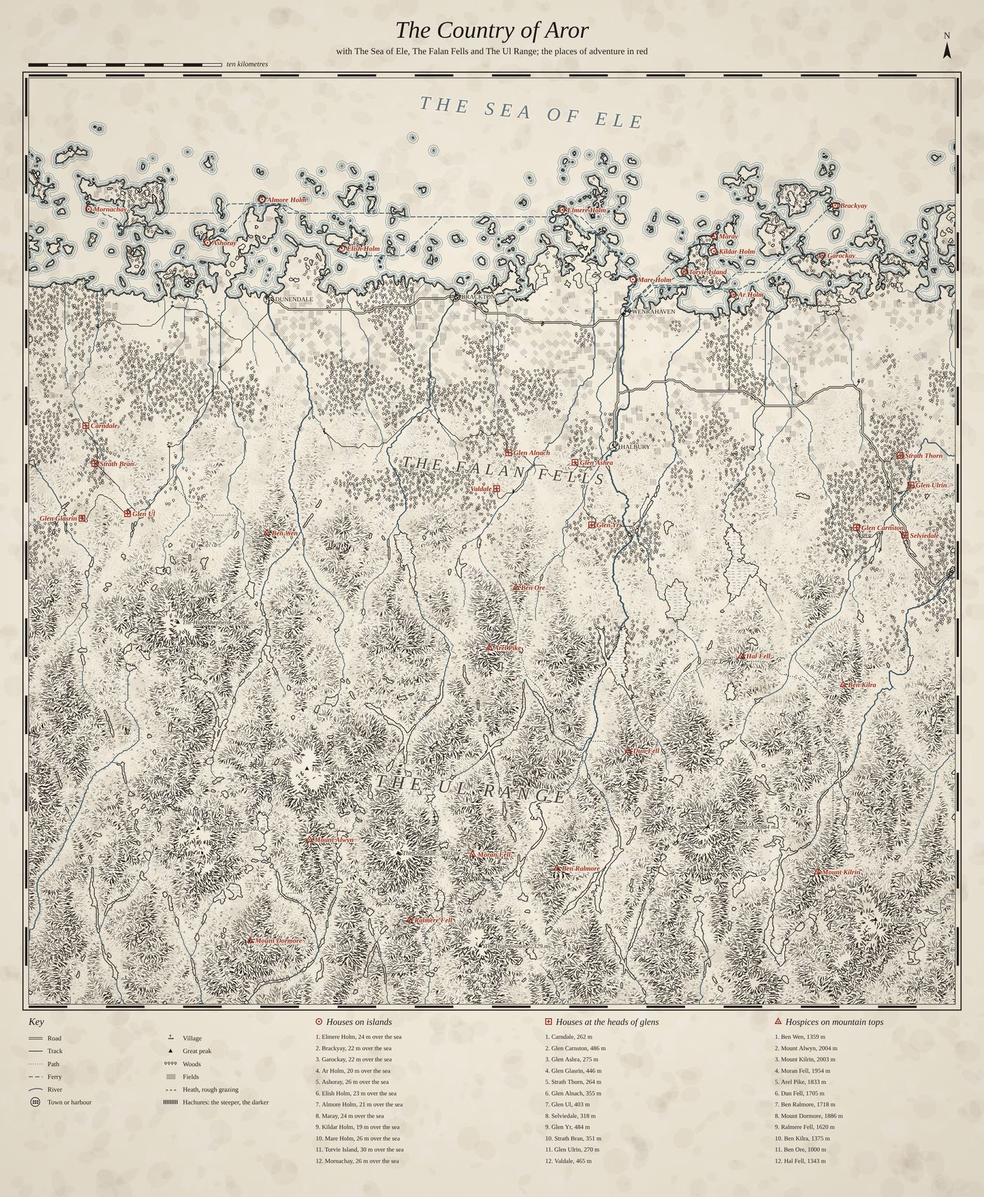
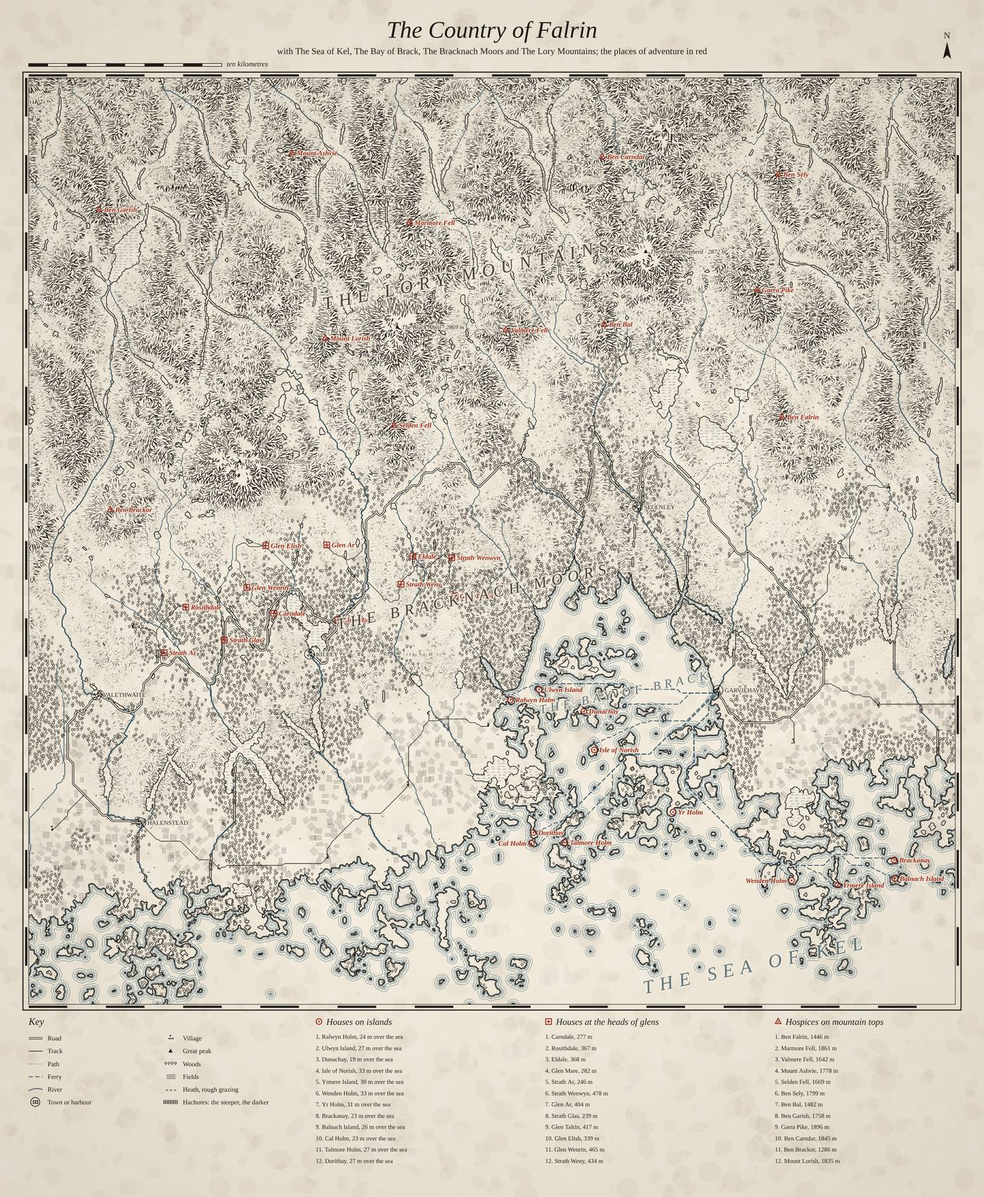
Worlds with the sea to the south, a great bay, and fjords
Inland is now north in every world, turned a little, so the sea and its islands lie to the south
and the mountains to the north.

Every world has a great bay: the coast pushed back inland over a stretch nine to fourteen
kilometres broad and ten to fifteen deep. Only the coast moves, so the bay cuts past the low
country into the upland and its shores are high ground; its floor is the shelf's, shallow and with
islands. Wherever the coast is high ground, the straths run on under the sea as fjords for six to
twelve kilometres; where low country lies in front of one, it holds a long loch instead. The wear
spares the sea's floor so that no sills are built across them. The bay is named and lettered on
the map.

The plan says what the time goes on: nine tenths of it the drops of water that wear the world and
its tiles, with what could be done about it.

Claude-Session: https://claude.ai/code/session_01B8uYcpgCvHtxtKsFNi9Pwq

diff --git a/src/core/world.ts b/src/core/world.ts
@@ -51,13 +51,21 @@ export interface WorldPlan {
   upland: number;
   /** The great peaks of the range: the landmarks, seen from everywhere. */
   peaks: { x: number; z: number; r: number; height: number }[];
+  /**
+   * A great bay, the coast pushed inland: where its middle lies along the coast (metres from the
+   * world's middle, eastward when inland is north), how broad it is at its mouth, and how far inland
+   * it reaches.
+   */
+  bay: { at: number; width: number; depth: number };
+  /** Fjords, where the coast is high ground: how deeply they are cut (0 to 1), and how far inland of the coast they run. */
+  fjords: { strength: number; reach: number };
 }
 
 export function planWorld(seed: string): WorldPlan {
   const rng = new Rng(`world/${seed}`), q = rng.fork('plan');
   const half = 24000;
-  // (Inland is one of the four quarters, turned a little: so the zones lie across the square and each has its share of it.)
-  const inland = q.int(0, 3) * (Math.PI / 2) + q.range(-0.35, 0.35);
+  // (Inland is north, turned a little: the sea and its islands to the south, the mountains to the north, as asked.)
+  const inland = -Math.PI / 2 + q.range(-0.3, 0.3);
   const span = half * (Math.abs(Math.cos(inland)) + Math.abs(Math.sin(inland)));
   const shelf = q.range(6500, 9000);
   const p: WorldPlan = {
@@ -66,13 +74,19 @@ export function planWorld(seed: string): WorldPlan {
     coast: -span + 4500 + shelf, shelf,
     // (Broad in some worlds, a strip in others, and in places none at all: there the upland comes down to the sea.)
     // (The range takes what is left, some third of the world: with more, it filled half of it and the rest was squeezed.)
-    plains: q.range(3000, 10000), upland: q.range(10000, 14000), peaks: [],
+    plains: q.range(2500, 9000), upland: q.range(10000, 14000), peaks: [],
+    bay: { at: 0, width: 0, depth: 0 }, fjords: { strength: 0, reach: 0 },
   };
+  // The bay: somewhere along the coast, not hard by the world's edge; broad, and reaching well inland, past the low country into
+  // the upland, where its sides and its head are fjord coast. (From a stream of its own, so the rest of the plan stays as it was.)
+  const b = rng.fork('bay');
+  p.bay = { at: Math.round(b.range(-0.45, 0.45) * half), width: Math.round(b.range(9000, 14000)), depth: Math.round(b.range(10000, 15000)) };
+  p.fjords = { strength: Math.round(b.range(0.6, 1) * 100) / 100, reach: Math.round(b.range(6000, 12000)) };
   // The great peaks: four to seven, well back in the range and well apart.
   const g = rng.fork('peaks'), want = g.int(4, 7);
   for (let tries = 0; tries < 600 && p.peaks.length < want; tries++) {
     const x = g.range(-half * 0.9, half * 0.9), z = g.range(-half * 0.9, half * 0.9), zn = zonesAt(p, x, z);
-    if (zn.d - zn.U < 3500) continue;
+    if (zn.d0 - zn.U < 3500) continue;
     const r = g.range(1800, 2800);
     if (p.peaks.some((o) => Math.hypot(o.x - x, o.z - z) < (o.r + r) * 1.15)) continue;
     p.peaks.push({ x: Math.round(x), z: Math.round(z), r: Math.round(r), height: Math.round(g.range(2300, 2900)) });
@@ -80,19 +94,29 @@ export function planWorld(seed: string): WorldPlan {
   return p;
 }
 
-/** Where a point lies among the zones: how far inland of the coast (`d`), where the upland and the range begin there, and how much it belongs to each zone (the four add to one). */
-export interface Zones { d: number; P: number; U: number; wI: number; wP: number; wU: number; wR: number }
-const ZN: Zones = { d: 0, P: 0, U: 0, wI: 0, wP: 0, wU: 0, wR: 0 };
+/**
+ * Where a point lies among the zones: how far inland of the coast (`d`, the bay's shore included) and
+ * of the coast as it would run without the bay (`d0`); where the upland and the range begin there,
+ * measured as `d0` is; how far it is upland or range rather than low country (`up`), and range
+ * rather than upland (`high`); and how much it belongs to each zone (the four add to one).
+ */
+export interface Zones { d: number; d0: number; P: number; U: number; up: number; high: number; wI: number; wP: number; wU: number; wR: number }
+const ZN: Zones = { d: 0, d0: 0, P: 0, U: 0, up: 0, high: 0, wI: 0, wP: 0, wU: 0, wR: 0 };
 
 /** The zones at a point. (Written into one object, reused: read what is wanted before asking again.) */
 export function zonesAt(p: WorldPlan, x: number, z: number): Zones {
   const n = p.n, s = x * Math.cos(p.inland) + z * Math.sin(p.inland);
   // (The coast wanders in bays and headlands some kilometres across, and in smaller ones on them.)
-  const d = s - p.coast + 5000 * fbmd(x / 11000 + 1.7, z / 11000 - 0.3, 3, n + 1) + 900 * fbmd(x / 3000, z / 3000 + 2.2, 3, n + 2);
+  const d0 = s - p.coast + 5000 * fbmd(x / 11000 + 1.7, z / 11000 - 0.3, 3, n + 1) + 900 * fbmd(x / 3000, z / 3000 + 2.2, 3, n + 2);
+  // The great bay: the coast pushed back inland, furthest along its middle, which wanders; rounded at its head. Only the coast is
+  // moved: the upland and the range stand where they would without it, so where it reaches them its shores are high ground.
+  const B = p.bay, lat = -x * Math.sin(p.inland) + z * Math.cos(p.inland);
+  const across = (lat - B.at + 1800 * fbmd(d0 / 7000 + 2.7, 0.4, 2, n + 6)) / (B.width / 2);
+  const d = d0 - B.depth * Math.pow(Math.max(0, 1 - Math.pow(Math.abs(across), 1.6)), 0.6);
   const P = p.plains + 7000 * fbmd(x / 10000 + 3.3, z / 10000 - 1.2, 2, n + 3);
   const U = Math.max(P, -400) + p.upland + 4000 * fbmd(x / 10000 - 4.1, z / 10000 + 2.2, 2, n + 4);
-  const a = smooth((d + 600) / 2000), b = smooth((d - P + 1500) / 3000), c = smooth((d - U + 2500) / 5000);
-  ZN.d = d; ZN.P = P; ZN.U = U;
+  const a = smooth((d + 600) / 2000), b = smooth((d0 - P + 1500) / 3000), c = smooth((d0 - U + 2500) / 5000);
+  ZN.d = d; ZN.d0 = d0; ZN.P = P; ZN.U = U; ZN.up = b; ZN.high = c;
   ZN.wI = 1 - a; ZN.wP = a * (1 - b); ZN.wU = a * b * (1 - c); ZN.wR = a * b * c;
   return ZN;
 }
@@ -142,9 +166,9 @@ function valleyLines(p: WorldPlan, x: number, z: number, apart: number, shape: n
 /**
  * The upland: as the valleys' frame has it (`highlands.ts`), ridged noise turned over so that its
  * crests are the floors of glens four or five hundred metres apart, branching and joining; and
- * under those, broad straths a couple of kilometres apart, made the same way at a larger size.
- * The glens fade out on the straths' floors, so that they come down into the straths and do not
- * dam them. Higher the further inland.
+ * under those, broad straths a few kilometres apart running inland (`valleyLines`). The glens fade
+ * out on the straths' floors, so that they come down into the straths and do not dam them. Higher
+ * the further inland.
  */
 function uplandAt(p: WorldPlan, x: number, z: number, d: number, P: number, U: number, fine: boolean): number {
   const n = p.n, t = clamp01((d - P) / Math.max(3000, U - P));
@@ -190,12 +214,21 @@ function rangeAt(p: WorldPlan, x: number, z: number, d: number, U: number, fine:
 
 /** The plain shape of the world's land at a point: each zone's land, in the share the point belongs to it. `fine` for the tiles' lattice, with more octaves. */
 export function worldShape(p: WorldPlan, x: number, z: number, fine = false): number {
-  const { d, P, U, wI, wP, wU, wR } = zonesAt(p, x, z);
+  const { d, d0, P, U, up, high, wI, wP, wU, wR } = zonesAt(p, x, z);
   let h = 0;
-  if (wI > 1e-4) h += wI * islesAt(p, x, z, d, fine);
+  // (The bay's floor is reckoned as the shelf's near the coast, so that it is shallow and has its islands, and is not open sea;
+  // in front of its mouth a channel a little deeper than the shelf around leads in.)
+  if (wI > 1e-4) h += wI * islesAt(p, x, z, Math.max(d, Math.min(d0, 0) - 2500), fine);
   if (wP > 1e-4) h += wP * plainsAt(p, x, z, d, P, fine);
-  if (wU > 1e-4) h += wU * uplandAt(p, x, z, d, P, U, fine);
-  if (wR > 1e-4) h += wR * rangeAt(p, x, z, d, U, fine);
+  if (wU > 1e-4) h += wU * uplandAt(p, x, z, d0, P, U, fine);
+  if (wR > 1e-4) h += wR * rangeAt(p, x, z, d0, U, fine);
+  // Fjords: where the coast is high ground (the upland come down to the sea, or the bay's shores cut into it), the straths, deep
+  // as the ice left them, run on under the sea for some kilometres inland, shallowing towards their heads, between walls.
+  const F = p.fjords, reach = 1 - smooth((d - F.reach) / 2500);
+  if (F.strength > 0 && d > -2000 && reach > 0 && up > 0.05 && high < 0.95) {
+    const v = valleyLines(p, x, z, 2300, 1, p.n + 36), w = Math.pow(Math.max(0, 1 - v / 0.45), 1.5) * up * (1 - high) * F.strength * reach;
+    if (w > 0) h -= w * (200 + 0.75 * Math.max(0, h));
+  }
   return h;
 }
 
@@ -240,7 +273,7 @@ export interface World {
   plan: WorldPlan;
   /** Its name; the names of its sea, its upland and its range; and of each great peak, in the plan's order. */
   name: string;
-  regions: { sea: string; upland: string; range: string };
+  regions: { sea: string; bay: string; upland: string; range: string };
   peakNames: string[];
   /** The land, worn; and as it was shaped before it was worn. */
   field: HeightField;
@@ -435,8 +468,9 @@ export function* worldSteps(seed: string): Generator<string, World> {
   for (let j = 0; j < N; j++) for (let i = 0; i < N; i++) {
     const x = f.x0 + i * CELL, z = f.z0 + j * CELL, k = j * N + i;
     f.data[k] = worldShape(p, x, z);
-    // (The shelf is spared on this lattice: its islands are a few points across here, and are worn in the tiles instead.)
-    keep[k] = zonesAt(p, x, z).wI;
+    // (The shelf is spared on this lattice: its islands are a few points across here, and are worn in the tiles instead. So is the
+    // floor of the sea wherever it is, fjords' too: what the water brought down would build sills across them.)
+    keep[k] = Math.max(zonesAt(p, x, z).wI, smooth(-f.data[k] / 15));
   }
   lap('shape');
   yield 'Wearing it with water and frost';
@@ -485,7 +519,7 @@ export function* worldSteps(seed: string): Generator<string, World> {
   yield 'Seeing what grows';
   const cover = coverOf(p, f, sea, lake, acc);
   lap('cover');
-  const w: World = { plan: p, name: '', regions: { sea: '', upland: '', range: '' }, peakNames: [], field: f, shaped, sea, lake, cover, acc, down, rivers, places: [], towns: [], ways: [], timing, why };
+  const w: World = { plan: p, name: '', regions: { sea: '', bay: '', upland: '', range: '' }, peakNames: [], field: f, shaped, sea, lake, cover, acc, down, rivers, places: [], towns: [], ways: [], timing, why };
 
   // ---- the places
   // Islands and valley heads, in the tiles where the shelf has land and where the upland is.
@@ -557,7 +591,7 @@ export function* worldSteps(seed: string): Generator<string, World> {
   // ---- names, in a fixed order, so that a world's names stay as they are while its places do
   const namer = new Namer(rng.fork('names'));
   w.name = namer.name('world');
-  w.regions = { sea: namer.name('sea'), upland: namer.name('upland'), range: namer.name('range') };
+  w.regions = { sea: namer.name('sea'), bay: namer.name('bay'), upland: namer.name('upland'), range: namer.name('range') };
   w.peakNames = p.peaks.map(() => namer.name('peak'));
   for (const t of w.towns) t.name = namer.name(t.kind);
   for (const q of w.places) q.name = namer.name(q.kind);

diff --git a/src/maps/inkWorld.ts b/src/maps/inkWorld.ts
@@ -309,18 +309,19 @@ export function drawInkWorld(canvas: HTMLCanvasElement, w: WorldMap, opts: { pix
 
   // The names of the sea, the upland and the range, spaced out across them, along the run of the coast.
   {
-    const sums: Record<string, [number, number, number]> = { sea: [0, 0, 0], upland: [0, 0, 0], range: [0, 0, 0] };
+    const sums: Record<string, [number, number, number]> = { sea: [0, 0, 0], bay: [0, 0, 0], upland: [0, 0, 0], range: [0, 0, 0] };
     for (let z = -half + 480; z < half; z += 960) for (let x = -half + 480; x < half; x += 960) {
       const zn = zonesAt(p, x, z), k = cellOf(x, z);
       const add = (key: string) => { sums[key][0] += x; sums[key][1] += z; sums[key][2]++; };
-      if (w.sea[k] && dist[k] > 1500) add('sea');
+      if (w.sea[k] && dist[k] > 1500 && zn.d0 < -1500) add('sea');
+      if (w.sea[k] && dist[k] > 400 && zn.d0 > 1500) add('bay');
       if (zn.wU > 0.7) add('upland');
       if (zn.wR > 0.8) add('range');
     }
     let a = p.inland + Math.PI / 2;
     while (a > Math.PI / 2) a -= Math.PI;
     while (a < -Math.PI / 2) a += Math.PI;
-    for (const [key, size] of [['sea', 46], ['upland', 38], ['range', 44]] as const) {
+    for (const [key, size] of [['sea', 46], ['bay', 30], ['upland', 38], ['range', 44]] as const) {
       const [sx, sz, n] = sums[key];
       if (!n) continue;
       const text = w.regions[key].toUpperCase().split('').join(String.fromCharCode(8202) + ' ');
@@ -330,7 +331,7 @@ export function drawInkWorld(canvas: HTMLCanvasElement, w: WorldMap, opts: { pix
       // (Lettered over the hachures, with the paper showing round each letter so it can be read.)
       ctx.lineWidth = 7 * u; ctx.strokeStyle = PAPER; ctx.globalAlpha = 0.75;
       ctx.strokeText(text, 0, 0, ms * 0.8);
-      ctx.globalAlpha = 0.8; ctx.fillStyle = key === 'sea' ? RIVER : INK;
+      ctx.globalAlpha = 0.8; ctx.fillStyle = key === 'sea' || key === 'bay' ? RIVER : INK;
       ctx.fillText(text, 0, 0, ms * 0.8);
       ctx.restore();
     }
@@ -359,7 +360,7 @@ export function drawInkWorld(canvas: HTMLCanvasElement, w: WorldMap, opts: { pix
   ctx.font = `italic ${58 * u}px ${SERIF}`;
   ctx.fillText(`The Country of ${w.name}`, W / 2, 92 * u);
   ctx.font = `${22 * u}px ${SERIF}`;
-  ctx.fillText(`with ${w.regions.sea}, ${w.regions.upland} and ${w.regions.range}; the places of adventure in red`, W / 2, 132 * u, W - 2 * edge);
+  ctx.fillText(`with ${w.regions.sea}, ${w.regions.bay}, ${w.regions.upland} and ${w.regions.range}; the places of adventure in red`, W / 2, 132 * u, W - 2 * edge);
   {
     const sx = edge, sy = 160 * u, kmPx = 1000 * scale;
     ctx.lineWidth = 1.4 * u; ctx.strokeStyle = INK;

diff --git a/src/core/names.ts b/src/core/names.ts
@@ -20,7 +20,7 @@ function root(rng: Rng): string {
   return cap(rng.chance(0.7) ? a + rng.pick(SECOND) : a);
 }
 
-export type NameKind = 'world' | 'sea' | 'upland' | 'range' | 'peak' | 'harbour' | 'town' | 'village' | 'island' | 'valley' | 'mountain';
+export type NameKind = 'world' | 'sea' | 'bay' | 'upland' | 'range' | 'peak' | 'harbour' | 'town' | 'village' | 'island' | 'valley' | 'mountain';
 
 /** Hands out names for one world, none twice. */
 export class Namer {
@@ -37,6 +37,7 @@ export class Namer {
     switch (kind) {
       case 'world': return x;
       case 'sea': return r.pick([`The ${x} Sound`, `The Sea of ${x}`, `The ${x} Firth`]);
+      case 'bay': return r.pick([`The Bay of ${x}`, `${x} Firth`, `The ${x} Fjord`]);
       case 'upland': return r.pick([`The ${x} Fells`, `The ${x} Moors`, `The Heights of ${x}`]);
       case 'range': return r.pick([`The ${x} Mountains`, `The ${x} Range`, `The Wall of ${x}`]);
       case 'peak': return `The ${r.pick(PEAK_WORDS.a)} ${r.pick(PEAK_WORDS.b)}`;

diff --git a/docs/03-plan.md b/docs/03-plan.md
@@ -267,7 +267,7 @@ The machine this is developed on now has a graphics card, and tablets were repor
     - *Specimen plates* (asked: "create me a "lab" style rendering grids of 16 different kind of: timber houses, classic houses, islands ..., mountains ..., 16 different kind of cave system ink maps", then trees, five each of five kinds, and the classic houses' floor plans, rectangular, U and L): published as a page (not in the repository). The houses were dealt by the generator's own rules and built with `buildBuilding` on a paved stage set up in a running valley, lit as scenery is (the game's materials are on `__dbg.materials` for this); the trees were grown one at a time in the material lab (`__lab.growPlants`); the islands and mountain tops were loaded whole, one after another, in a frame inside one page, and seen from high on their sunlit side; the cave systems are delves drawn with `drawInk`, and the plans drawn with `drawStorey`, at one scale.
     - *The great peaks round a mountain top, asked about with a picture* ("why are the big horn mountains so smooth looking ... these look smooth, and somehow not real mountains"). Measured: across a face some 700 metres high there was about 3 metres of relief finer than 40 metres and 15 to 25 finer than 150; the far sheet drew a face looking this way in rows 40 metres apart; nothing out there cast a shadow, the sun's shadow map covering only the site; and the frost wear of the near country rubbed away what relief was given. *Done:* the rock of the faces laid on after the wearing (buttresses, gullies, towers on the arêtes, `hornRelief`), the sheet's rings as close as its points, and shadows reckoned once along the sun's ray over the sheet. See `docs/04-look.md`, "The peaks round about". *Checked:* `tools/mountain.ts` (both sound; 64 and 81 seconds with the browser building beside it, the far range 1.6 to 2.1 of them, its shadows with it), `tools/sites.ts` on mountain tops (24, no failures), a winter mountain played to the end; the far range now costs about 0.8 milliseconds of a frame, seen whole from the air; pictures before and after sent.
     - *Then: "they should carry probably a magnitude more detail; making them not so stupidly sharp and high could help also; the cloud mass below the play area seems very two dimensional disc like.. could use more vertical volume filling billowing?"* *Done:* the peaks lower (giants 340 to 700 metres over the cloud, the big near ones 180 to 420) and broader, no face steeper than about forty-five degrees on the whole and nearly straight, summits eased into crests, fewer and lower lesser summits about the great ones; the far sheet a notch finer again (1,792 round, rings as close); the rock of steep faces drawn per point of the picture, down to a few metres, in the far material; the sea of cloud heaped up in domes some fifty metres high with heads on them, banked against the mountain, kept off the ridge the way climbs, with soft fringes. See `docs/04-look.md`. The great peaks are no longer let stand within a kilometre or so of the top: broad as they now are, their faces reached the top's own ground and were drawn as its plain sheet, a smooth dome. *Checked:* `tools/mountain.ts` (both sound; 72 and 74 seconds with the browser building beside them, the far range 3 to 4 of them), `tools/sites.ts` on mountain tops (24, no failures), a winter mountain played to the end. A frame seen whole from the air, at 1755 by 975 with a check running beside it, went from 13.7 to 16.6 milliseconds (the far range 2.3 of it, the sea of cloud 2.1), at the arrival from 12.7 to 14.7. Pictures before and after sent.
-24. **One world for every kind of place.** Asked: "Would it be possible to generate such terrains that the same 'world iteration' could contain areas for all locations? each separately of course then having the detailed close area", then "so we would need to generate a 'world' height map which would contain: islands; coast; placeholder for forest / farmlands / plains?; valley; mountain tops", then "Yes proceed! and write a plan as well. I will want also ink map of the world as a deliverable showing the spots for each and imaginary roads(?) or paths(?)". Planned in [document 6](06-world.md), in six steps. *Done, the first:* a world, forty-eight kilometres square, made from a seed (`world.ts`): sea and a shelf of islands, the coast, low country, an upland of glens, a range with great peaks; worn on a 48-metre lattice so that rivers drain it to the sea, hollows deeper than sixty metres given an outlet and the rest left as lakes; what lies on the land (fields, pasture, woods, heath, rock, snow, marsh, shore); tiles of a 20-metre lattice on a fixed grid in which islands and valley heads are looked for with their own searches, mountain tops on the world's lattice; a harbour, towns and villages; roads, tracks, paths and ferries laid over the land; names for all of it (`names.ts`). Its ink map and its relief on a page of their own (`world.html`, `inkWorld.ts`). *Measured:* a world in 26 to 34 seconds without a browser, 26 to 32 in one; twelve places of each kind in the worlds tried, but eleven islands in one whose shelf runs along its edge. Nothing in the game reads a world yet: steps 2 to 4 join valleys, islands and mountain tops to it, and the far land.
+24. **One world for every kind of place.** Asked: "Would it be possible to generate such terrains that the same 'world iteration' could contain areas for all locations? each separately of course then having the detailed close area", then "so we would need to generate a 'world' height map which would contain: islands; coast; placeholder for forest / farmlands / plains?; valley; mountain tops", then "Yes proceed! and write a plan as well. I will want also ink map of the world as a deliverable showing the spots for each and imaginary roads(?) or paths(?)". Planned in [document 6](06-world.md), in six steps. *Done, the first:* a world, forty-eight kilometres square, made from a seed (`world.ts`): sea and a shelf of islands, the coast, low country, an upland of glens, a range with great peaks; worn on a 48-metre lattice so that rivers drain it to the sea, hollows deeper than sixty metres given an outlet and the rest left as lakes; what lies on the land (fields, pasture, woods, heath, rock, snow, marsh, shore); tiles of a 20-metre lattice on a fixed grid in which islands and valley heads are looked for with their own searches, mountain tops on the world's lattice; a harbour, towns and villages; roads, tracks, paths and ferries laid over the land; names for all of it (`names.ts`). Its ink map and its relief on a page of their own (`world.html`, `inkWorld.ts`). *Measured:* a world in 26 to 34 seconds without a browser, 26 to 32 in one; twelve places of each kind in the worlds tried, but eleven islands in one whose shelf runs along its edge. Nothing in the game reads a world yet: steps 2 to 4 join valleys, islands and mountain tops to it, and the far land. *Then asked:* the sea and islands to the south and the mountains to the north (every world now so, turned a little), and "how could we have a large bay on the world map extending inland and having possibly fjord coasts also?": a great bay in every world, cutting past the low country into high ground, shallow with islands in it; and fjords, the upland's straths carried on under the sea for six to twelve kilometres wherever the coast is high ground, or long lochs where low country lies in front of them (see document 6). Asked too what the time goes on: nine tenths of it the drops of water that wear the land, the world's and the tiles' (document 6 has the measures and what could be done).
 
 ## Risks
 

diff --git a/docs/06-world.md b/docs/06-world.md
@@ -27,21 +27,35 @@ finer near the mountain. What was missing was one land holding them all.
 All in `src/core/world.ts`, decided from the world's seed alone; nothing in it depends on which
 place asks for it.
 
-- **The plan** (`planWorld`): which way is inland (one of the four quarters, turned a little), where
-  the coast lies, how far out the shelf of islands reaches, how broad the low country and the upland
-  are, and four to seven great peaks well back in the range.
+- **The plan** (`planWorld`): inland is north, turned up to 17 degrees either way, so the sea and its
+  islands lie to the south and the mountains to the north (asked: "would prefer orientation of having the
+  ocean and islands in south and mountains in the north"); where the coast lies, how far out the shelf of
+  islands reaches, how broad the low country and the upland are; four to seven great peaks well back in
+  the range; a great bay; and how deep and how far inland its fjords are cut.
 - **The zones.** Going inland: open sea; a shelf with islands on it; the coast; the low country;
   the upland; the range. Every point belongs to each zone in a share (`zonesAt`), the shares adding
   to one and blending over a few kilometres where zones meet. The boundaries wander: the coast in
   bays and headlands some kilometres across, the foot of the upland so far that in places it comes
   down to the sea and the low country is gone.
+- **The great bay and the fjords** (asked: "how could we have a large bay on the world map extending
+  inland and having possibly fjord coasts also?"). The bay is the coast pushed back inland over a stretch
+  nine to fourteen kilometres broad at its mouth, ten to fifteen kilometres deep, furthest along its middle
+  (which wanders) and rounded at its head. Only the coast is moved: the upland and the range stand where
+  they would without it, so the bay cuts past the low country into high ground, and its sides and head are
+  steep. Its floor is reckoned as the shelf's near the coast, so it is shallow and has islands in it, and a
+  channel a little deeper leads in at its mouth. Fjords are cut wherever the coast is high ground (the
+  bay's sides and head, and wherever the upland comes down to the sea): the straths, which already run
+  inland, are carried on under the sea between their walls for six to twelve kilometres inland, deepest at
+  their mouths and shallowing towards their heads. Where low country lies in front of one, its carved floor
+  is cut off from the sea and holds a long loch instead. The world's wear spares the floor of the sea, so
+  that what the rivers bring down does not build sills across the fjords.
 - **The land**: each zone has a land of its own, and a point's height is each zone's land in the
   share it belongs to that zone (`worldShape`). One sea level for all of it; heights in metres over
   the sea.
 
   | Zone | Its land | Heights |
   |---|---|---|
-  | Open sea and shelf | The archipelago's own land (as `archipelago.ts`), lowered to stand in the world's sea, sparser and deeper further out | islands to 20–110 m, sea floor to −300 |
+  | Open sea, shelf and bay | The archipelago's own land (as `archipelago.ts`), lowered to stand in the world's sea, sparser and deeper further out | islands to 20–110 m, sea floor to −300 |
   | Low country | Long gentle swells rising from the shore to the foot of the upland | 0 to about 200 m |
   | Upland | Broad straths running inland, and between them the glens of the valleys' frame (`highlands.ts`), branching, coming down into the straths | floors 60–400 m, tops to 800 |
   | Range | Great valleys running inland, crossing and joining; side valleys down into them; massifs and cols along the ridges; a mass under each great peak | floors 330–800 m, summits 1,000–2,300, great peaks 2,300–3,000 |
@@ -110,15 +124,21 @@ world. `tools/browser/worldmap.cjs` saves both pictures of any worlds without a 
 
 ## Measured
 
-Without a browser, in a cloud container with four cores (`npx tsx tools/world.ts 3`), November 2026:
-a world builds in 26 to 34 seconds. Its shape takes 1.6, the wear 10.5 to 11, following the water and
-cutting outlets 1.0 to 1.2, the cover 0.4; the tiles searched for islands and valley heads, 10 to 16
-of them at a little over a second each, 12 to 19 (the search stops once it has twelve of a kind, so a
-world whose islands are few or near its edge looks in more tiles); and the summits, towns and ways
-under a second together. In the browser (Chromium, headless, on the same machine), the world page made
-and drew each of the same three in 26 to 32 seconds. Of the three, two gave twelve places of each kind;
-`w0`, whose shelf runs along the world's edge, eleven islands, the rest being too near the edge. Each
-had nineteen towns (the harbour, four towns and fourteen villages) and 110 to 116 rivers.
+Without a browser, in a cloud container with four cores (`npx tsx tools/world.ts`), November 2026:
+a world builds in 25 to 33 seconds; in the browser (Chromium, headless, on the same machine) the world
+page makes and draws one in 25 to 28. Every world tried gave twelve places of each kind, nineteen towns
+(the harbour, four towns and fourteen villages) and a hundred or so rivers.
+
+What the time goes on, measured stage by stage for one world (`w2`): the shape 1.7 seconds; the wear by
+water 10.6 (a million drops, each running up to ninety steps), by frost 0.3; cutting outlets and following
+the water 0.8; the cover 0.4; then the tiles, 10 to 15 of them, each 1.25 seconds, of which 1.07 is its wear
+by water (130,000 drops), 0.11 its shape and 0.07 its frost and drainage; the summits, towns, ways and names
+under half a second together. So some nine tenths of the time is the drops. What could be done about it,
+cheapest first: keep the world once made (in the browser's storage, some ten megabytes with its tiles), so
+that only the first visit pays; wear the tiles side by side, one worker to a core, since each is made alone
+(on four cores, their twelve to eighteen seconds to four or five); fewer drops on the world's lattice (half
+as many, half the time, the rivers' valleys a little shallower); or the drops run on the graphics card, which
+is a piece of work of its own.
 
 What it took to make the land drain, for whoever changes it next: first the range was made of the
 ridged noise's crests alone, as the mountain's country is, and the hollows between the crests filled

diff --git a/README.md b/README.md
@@ -102,7 +102,7 @@ Useful URL parameters: `quality` (`low`, `medium` or `high`), `grass` (how far o
 
 In play, **Weather** opens a menu: cloud, whether it heaps up or lies in banks, mist, haze, wind and rain change as you watch (`?rain=0.8` starts it raining); a new time of day builds the place again and puts you back where you stood. What it changes is kept in the address, so a reload brings it back.
 
-**World** (`world.html`, published beside the tool) makes a whole country forty-eight kilometres square from a seed (`?world=<seed>`): a sea with islands, a coast, low country of fields and woods, an upland of glens and a range of mountains, with rivers, towns and the roads, tracks, paths and ferries between them. The islands, valley heads and mountain tops a house could stand on are found in it and marked in red on an ink map in the style of the place's own, with a key and a list of them; **Relief** shows it as shaded relief. It takes half a minute or so. The places cannot yet be walked from it: [the plan](docs/06-world.md) says how they will be.
+**World** (`world.html`, published beside the tool) makes a whole country forty-eight kilometres square from a seed (`?world=<seed>`): a sea with islands to the south, a coast with a great bay and fjords, low country of fields and woods, an upland of glens and a range of mountains to the north, with rivers, towns and the roads, tracks, paths and ferries between them. The islands, valley heads and mountain tops a house could stand on are found in it and marked in red on an ink map in the style of the place's own, with a key and a list of them; **Relief** shows it as shaded relief. It takes half a minute or so. The places cannot yet be walked from it: [the plan](docs/06-world.md) says how they will be.
 
 **Export** saves the current place: its plan and an ink map as images with a key to the rooms (the ink map with a second sheet of the whole valley, island or mountain top), a battle map rendered from above, its site document as JSON, and its 3D model as a glTF file (`.glb`, about 50 MB for a ten-room place; baked light is not included). [The site format](docs/05-site-format.md) describes all of them. `examples/viewer/` is a small page, published beside the tool, that loads an exported model and its document and shows the building cut open with its rooms named.
 
